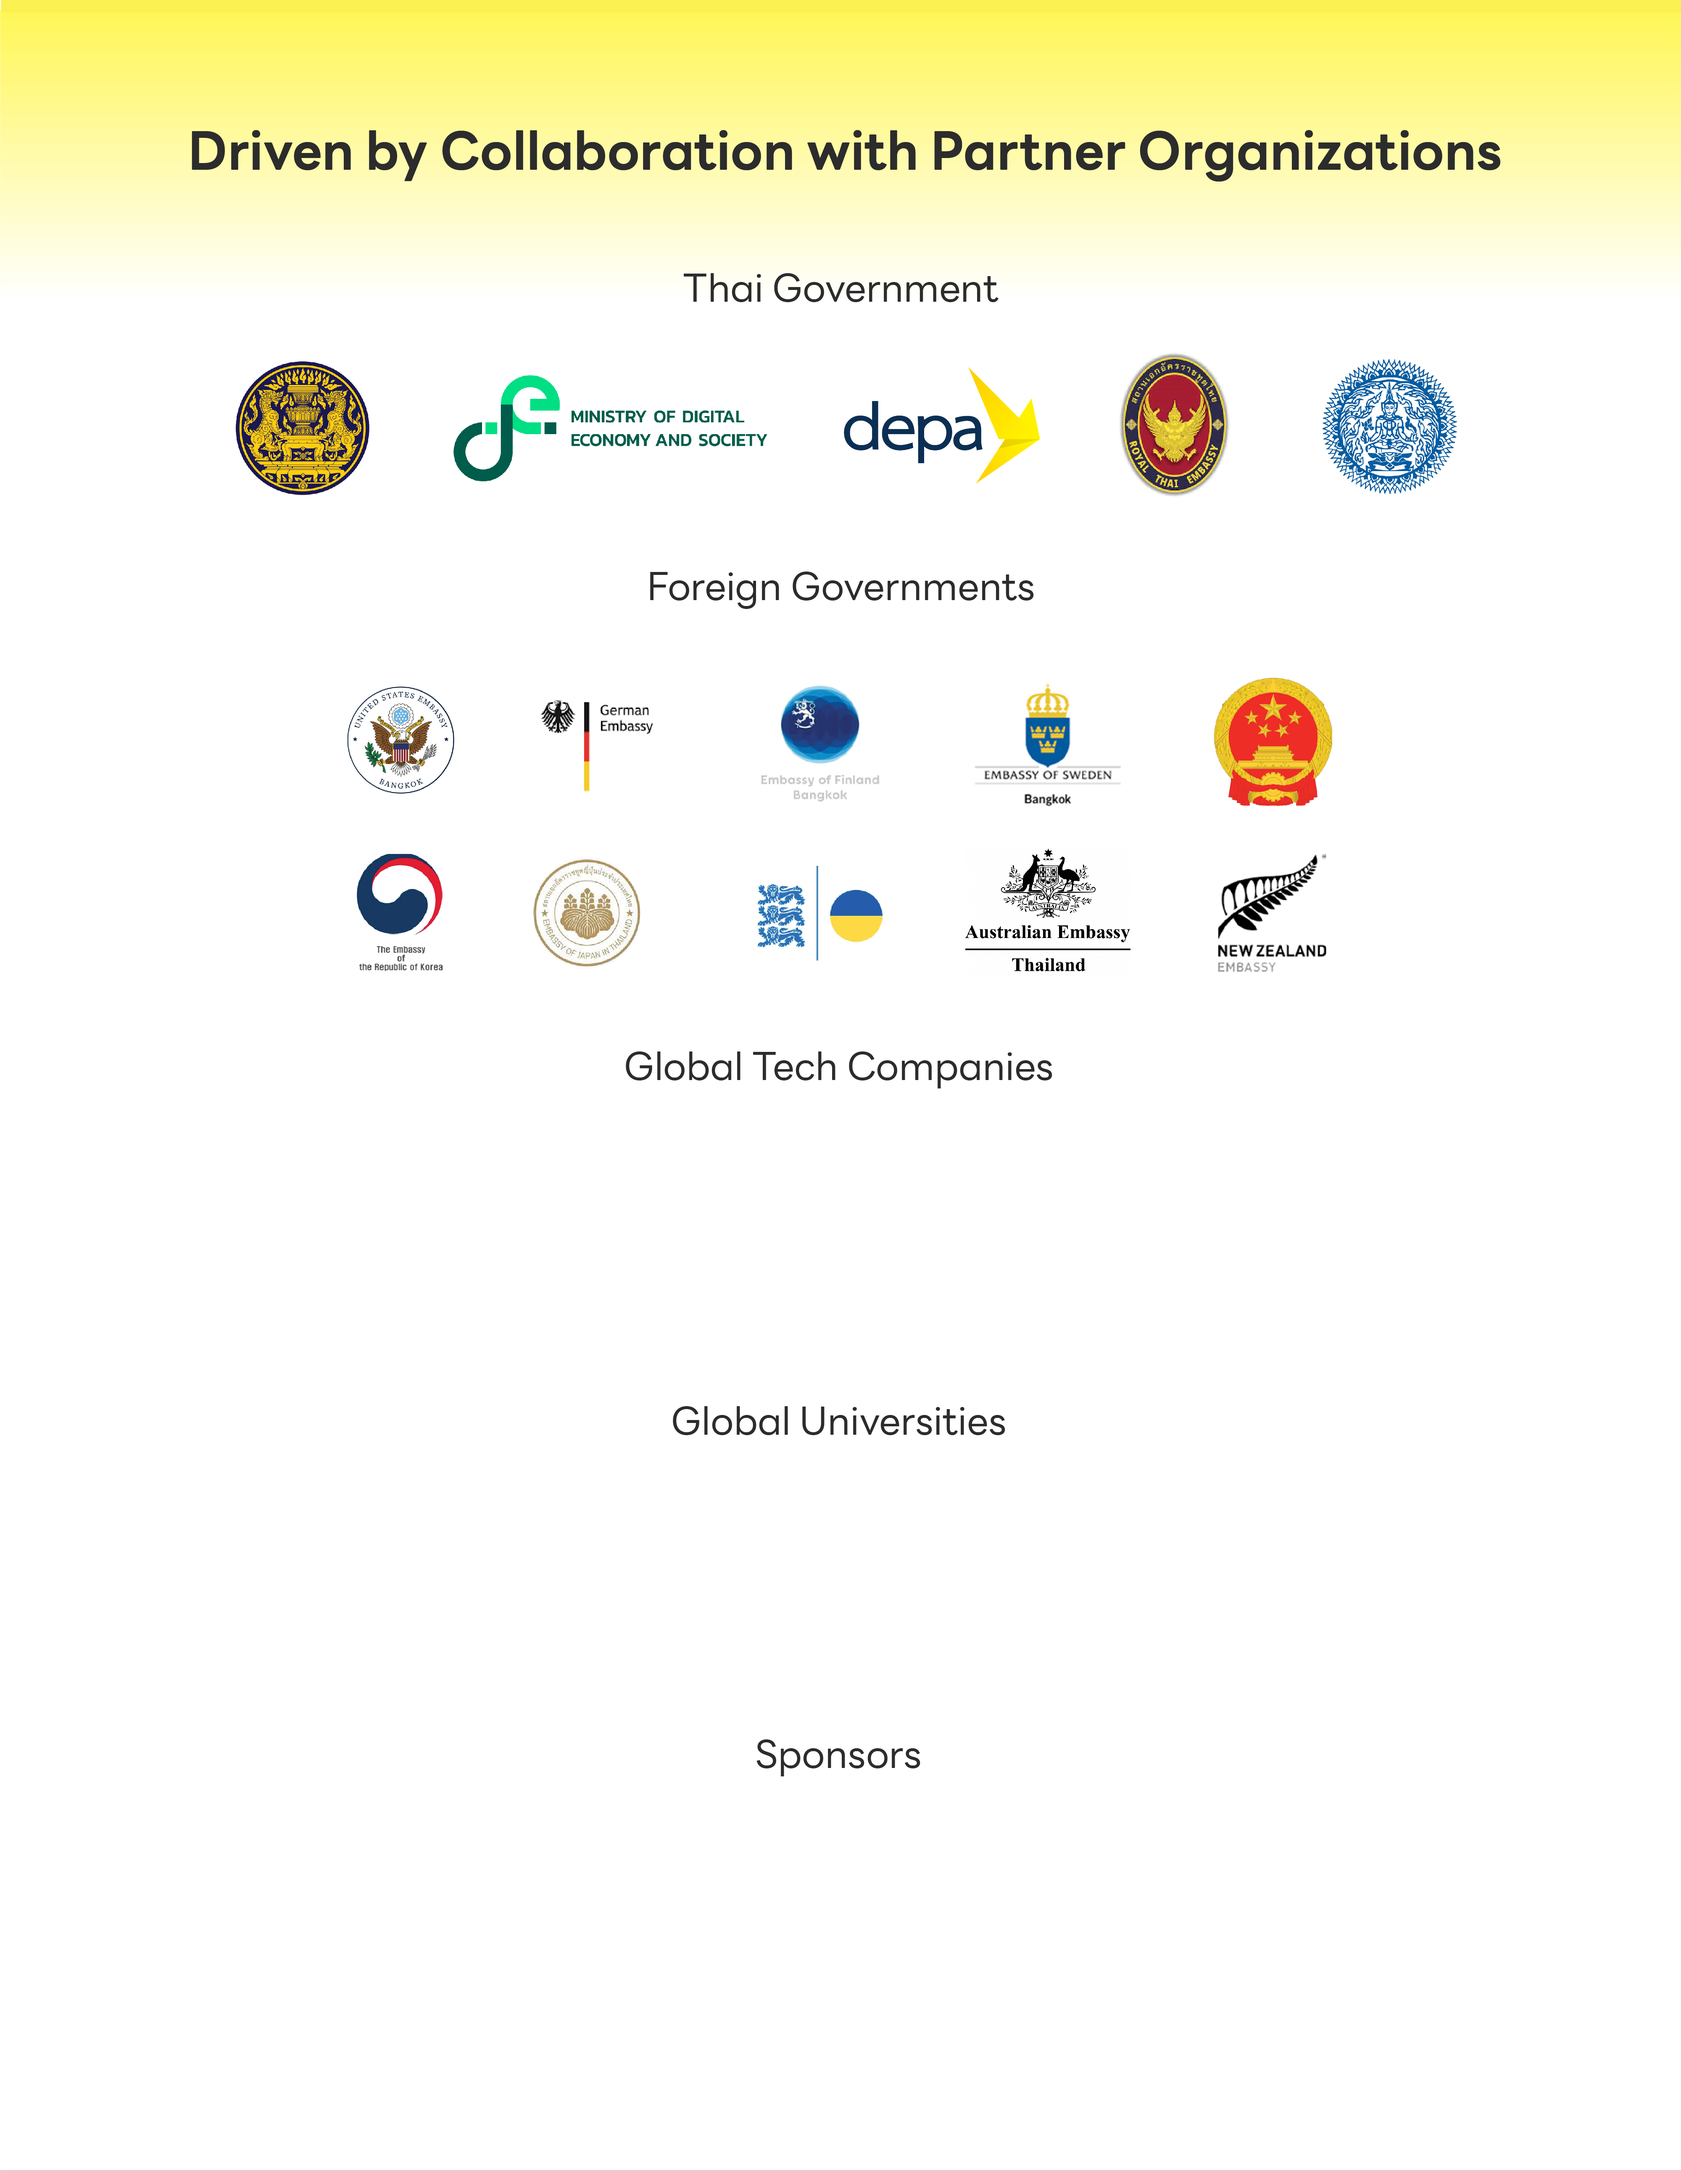
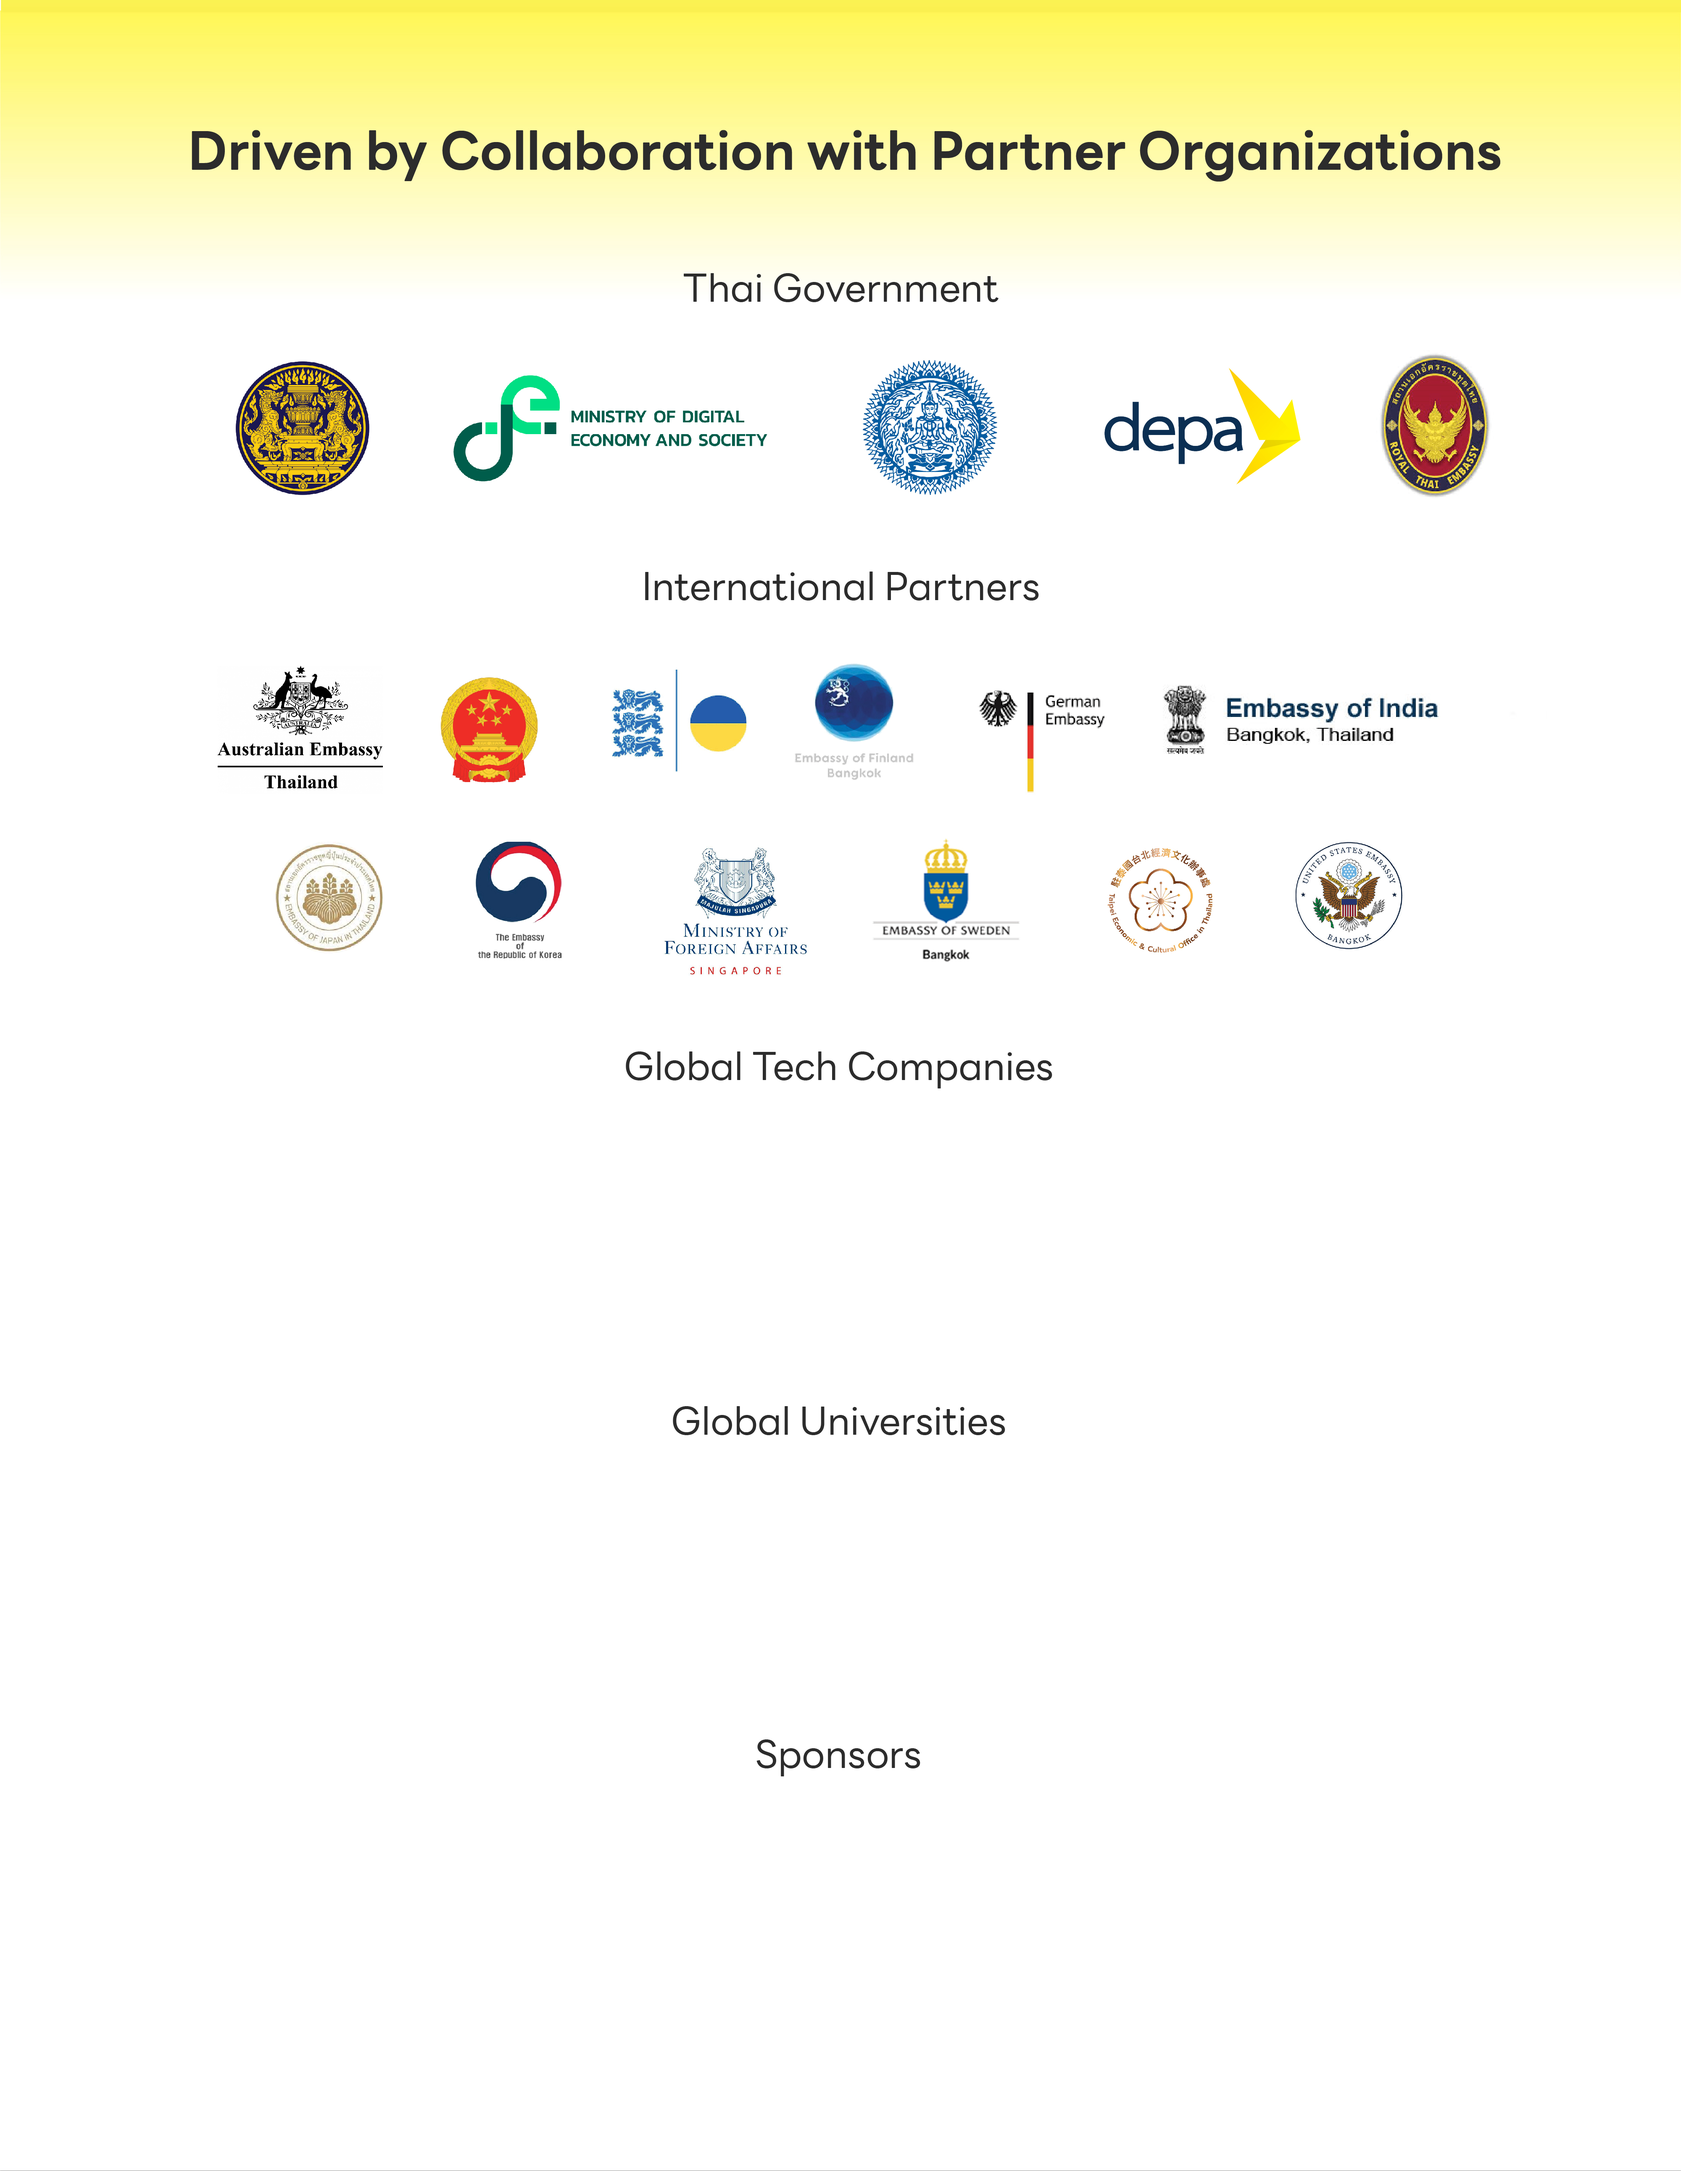
Added missing images

Changed region(s): [[0.1562, 0.1558, 0.625, 0.4675], [0.4062, 0.3117, 0.8438, 0.4675], [0.6562, 0.1558, 0.9062, 0.2493]]

diff --git a/src/components/NavbarTH.jsx b/src/components/NavbarTH.jsx
@@ -26,10 +26,10 @@ function NavbarTH({ hideLanguageTranslator }) {
         </div> */}
                 <div className="flex">
                     <div>
-                        <ul className="flex gap-6 text-xl pr-8">
+                        <ul className="flex gap-6 text-[12px] pr-4">
                           <Link to="/">Home</Link>
                             <li>
-                                <a href="/Maintenance">About</a>
+                                {/* <a href="/Maintenance">About</a> */}
                             </li>
                             <li>
                                 <a href="/InfoTH">Information</a>
@@ -40,7 +40,7 @@ function NavbarTH({ hideLanguageTranslator }) {
 
                         </ul>
                     </div>
-                    <div className="pr-10">
+                    <div className="pr-3 text-[12px]">
                         <Link to='/EN'>EN</Link>
                         <span> | </span>
                         <Link to='/'>TH</Link>

diff --git a/src/pages/infoTH.jsx b/src/pages/infoTH.jsx
@@ -26,7 +26,7 @@ function InfoTH() {
         <div className="id= คุณสมบัติ">
           <div className="h-screen flex flex-col  ">
             <br></br>
-            <h1 className="text-5xl font-bold mb-6 items-center text-center ">คุณสมบัติของผู้สมัครเข้าร่วมโครงการ</h1>
+            <h1 className="text-5xl  font-bold mb-6 items-center text-center ">คุณสมบัติของผู้สมัครเข้าร่วมโครงการ</h1>
             <p className="px-4">ณ วันที่ 24 มีนาคม 2568 ผู้สมัครต้องมีคุณสมบัติ ดังต่อไปนี้</p>
             <ul className="คุณสมบัติ px-6">
               <li><label htmlFor="#">1.1	มีสัญชาติไทย</label></li>

diff --git a/src/components/Nav_info.jsx b/src/components/Nav_info.jsx
@@ -12,13 +12,13 @@ function Navbar({ }) {
                     className="hidden md:block"
                 />
                 <div className="flex">
-                    <div className="flex gap-6 text-xl pr-8">
+                    <div className="flex gap-6 text-[12px] pr-4">
                         <Link to="/">Home</Link>
-                        <Link to="/Maintenance">About</Link>
+                        {/* <Link to="/Maintenance">About</Link> */}
                         <Link to="/Information">Information</Link>
                         <Link to="/Maintenance">News</Link>
                     </div>
-                    <div className="pr-10">
+                    <div className="text-[12px] pr-3">
                         <Link to='/Information'>EN</Link>
                         <span> | </span>
                         <Link to='/infoTH'>TH</Link>

diff --git a/src/components/TH.jsx b/src/components/TH.jsx
@@ -17,7 +17,7 @@ function TH() {
                 <img src="/images/ODOS Website_Detail_Section 1.jpg" alt="" />
             </div>
             <div className="flex flex-col justify-center items-center">
-                <img src="/images/openTH.jpg" alt="" />
+                <img src="/images/BFOpenTH.jpg" alt="" />
                 {/* <div className="bg-[url('/images/ODOS Website_EN_BG Section 2.png')] bg-cover w-full"> */}
                 {/* <Region /> */}
                 {/* </div> */}
@@ -32,7 +32,7 @@ function TH() {
                 <TimelineTH />
             </div>
             <div>
-                <img src="/images/ParnerTH.jpg" alt="" />
+                <img src="/images/ODOS Website_TH_20032025_Section 7 Partner.jpg" alt="" />
             </div>
             {/* <div>
                 <img src="/images/FooterTH.jpg" alt="" />

diff --git a/src/components/Navbar.jsx b/src/components/Navbar.jsx
@@ -36,13 +36,14 @@ function Navbar({ hideLanguageTranslator }) {
           </div>
         </div> */}
         <div className="flex">
-          <div className="flex gap-6 text-xl pr-8">
+          <div className="flex gap-6 text-[12px] pr-4">
             <Link to="/">Home</Link>
-            <Link to="/Maintenance">About</Link>
+            {/* <Link to="/Maintenance">About</Link> */}
             <Link to="/Information">Information</Link>
             <Link to="/Maintenance">News</Link>
+            
           </div>
-          <div className="pr-10">
+          <div className="pr-3 text-[12px]">
             <Link to='/EN'>EN</Link>
             <span> | </span>
             <Link to='/'>TH</Link>

diff --git a/src/components/Footer.jsx b/src/components/Footer.jsx
@@ -12,7 +12,7 @@ function Footer() {
         <div className="text-[white] text-sm sm:text-xl ml-8">
           <p className="font-bold">Email: contactodos@depa.or.th</p>
           <p className="font-bold">Address</p>
-          <p>234/431 Lat Phroa Road, Soi Lat Phrao 10 Rd.,Chom Phon,</p>
+          <p>234/431 Soi Ladprao 10 Ladprao Rd., Chom Phon,</p>
           <p>Chatuchak, Bangkok 10900</p>
           <p>This website is created by Digital Economy Promotion Agency</p>
         </div>

diff --git a/src/components/FooterTH.jsx b/src/components/FooterTH.jsx
@@ -6,7 +6,7 @@ function Footer() {
       <img
         src="\images\Logo ODOS and KV_Monochome_White.png"
         alt=""
-        className="w-[250px] h-[100px] sm:w-[200px] sm:h-[200px]"
+        className="sm:w-[250px] sm:h-[250px]"
       />
       <div className="">
         <div className="text-[white] text-sm sm:text-xl ml-8">

diff --git a/src/App.jsx b/src/App.jsx
@@ -47,7 +47,7 @@ function App() {
         <Timeline />
       </div>
       <div>
-        <img src="/images/Partner.jpg" alt="" />
+        <img src="/images/ODOS Website_EN_Section 7 Partner.jpg" alt="" />
       </div>
       {/* <div>
         <img src="/images/Footer.png " alt="" />
